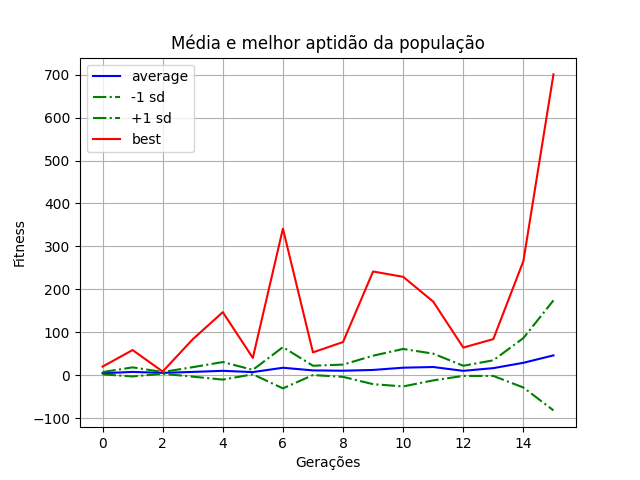
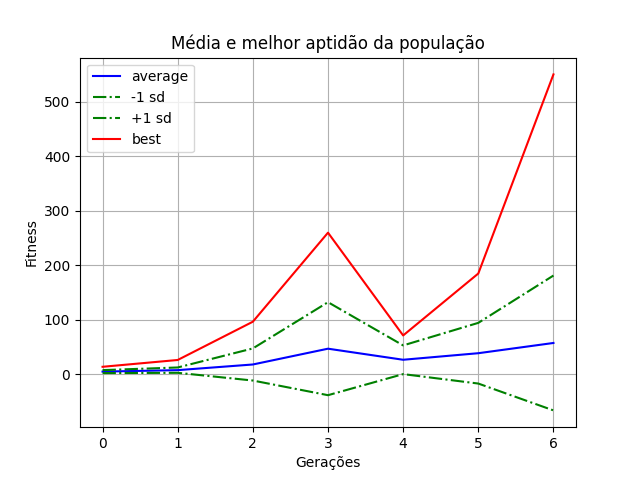
pop 15 e mutação 30%

diff --git a/main.py b/main.py
@@ -187,10 +187,9 @@ def main(genomas, config):  # fitness function
 
         if add_cano:
             pontos += 1  # adiciona um ponto ao placar
-            if CENARIO > 2 and aceleracao <= 7:
+            if CENARIO > 2 and aceleracao <= 6.5:
                 # Acelera a passagem do cano pela tela
-                aceleracao += 0.001*(timestamps/6)
-                print(aceleracao)
+                aceleracao += 0.001*(timestamps/5)
 
             new_pipe = Cano(600, aceleracao)
             canos.append(new_pipe)  # cria um novo cano
